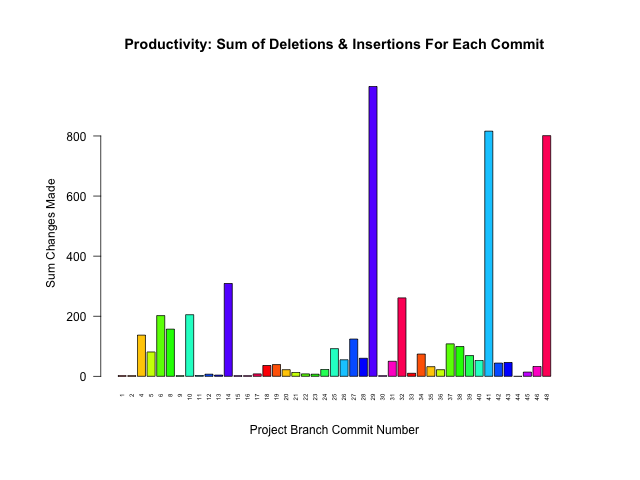
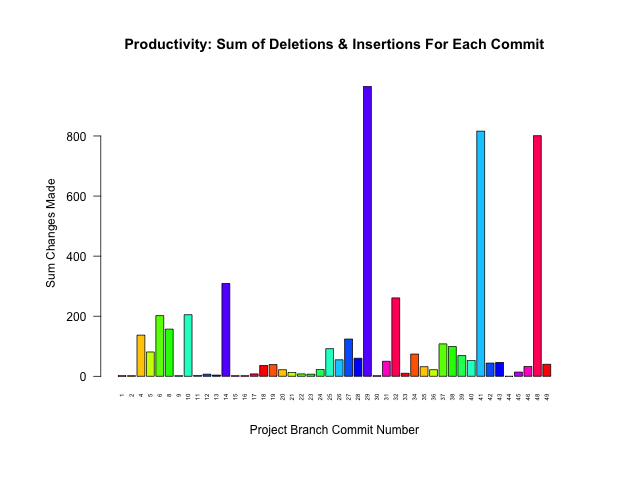
COMMIT #106

diff --git a/README.md b/README.md
@@ -18,8 +18,8 @@ ProjectName::BranchName.data
 
 Project Name | Last Updated | # of Commits | # of Branches
 :---|:---|:---|:---
-FASTQ_examiner_project                   |  2023-04-02  |  48   |  1
-commit_tracker_project                   |  2023-04-02  |  104  |  1
+FASTQ_examiner_project                   |  2023-04-03  |  49   |  1
+commit_tracker_project                   |  2023-04-02  |  105  |  1
 minishell_project                        |  2023-02-03  |  67   |  8
 ft_printf_project                        |  2023-01-27  |  36   |  2
 test_non-fastforward_merge-push_project  |  2023-01-27  |  15   |  2
